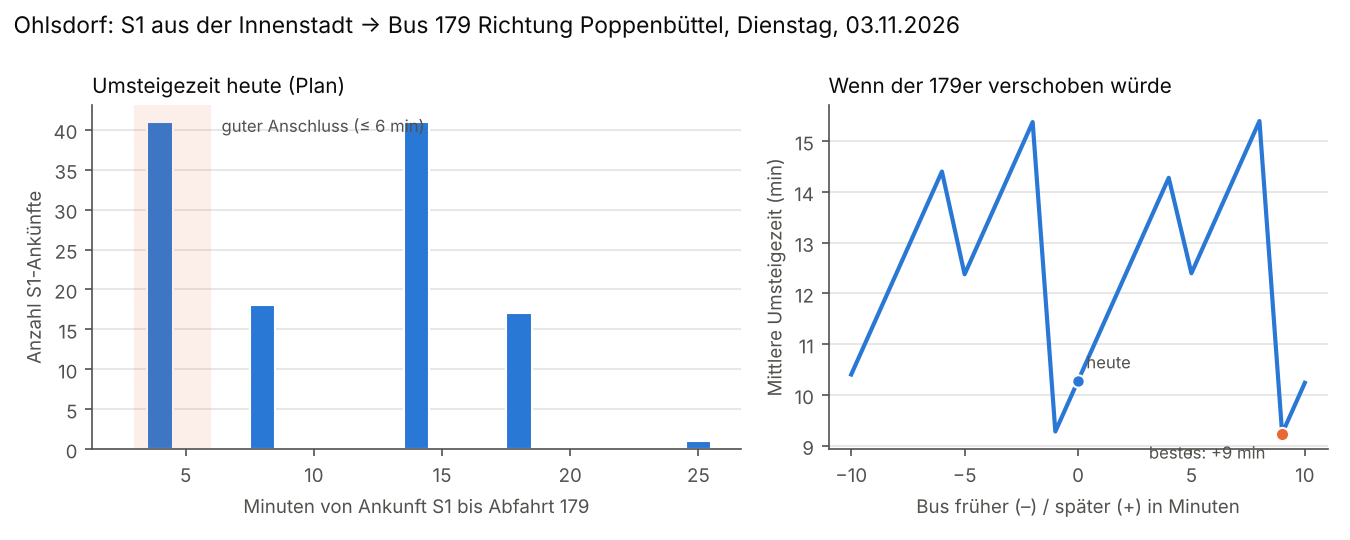
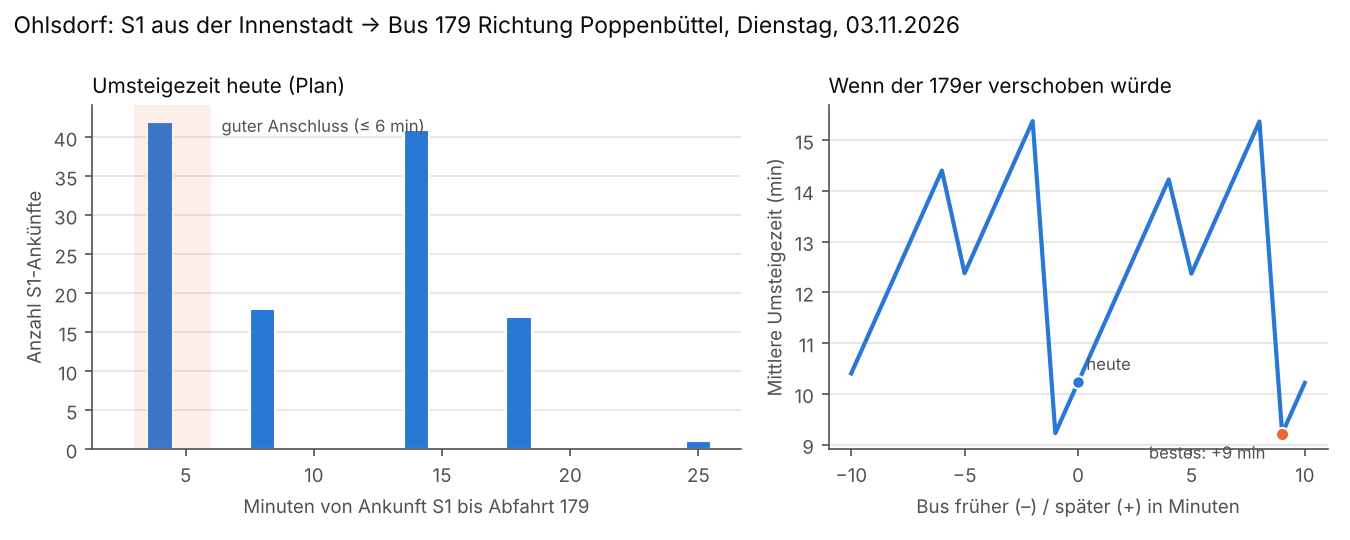
Anschluss-Analyse: erste Abfahrt des Tages korrekt berücksichtigen
Claude-Session: https://claude.ai/code/session_016gEraK8FbaFzQoap8enVhN

diff --git a/analysen/stufe1.py b/analysen/stufe1.py
@@ -184,9 +184,12 @@ def naechste(abfahrten: np.ndarray, ankunft: np.ndarray, min_s: int) -> np.ndarr
     abfahrten = np.sort(abfahrten)
     idx = np.searchsorted(abfahrten, ankunft + min_s, side="left")
     ergebnis = np.full(len(ankunft), np.nan)
-    ok = (idx < len(abfahrten)) & (idx > 0)
+    ok = idx < len(abfahrten)
     luecke = np.full(len(ankunft), np.inf)
-    luecke[ok] = abfahrten[idx[ok]] - abfahrten[idx[ok] - 1]
+    mit_vorgaenger = ok & (idx > 0)
+    luecke[mit_vorgaenger] = abfahrten[idx[mit_vorgaenger]] - abfahrten[idx[mit_vorgaenger] - 1]
+    erste_abfahrt = ok & (idx == 0)  # vor der ersten Abfahrt des Tages: Lücke = Wartezeit selbst
+    luecke[erste_abfahrt] = abfahrten[0] - ankunft[erste_abfahrt]
     ok &= luecke <= MAX_LUECKE_S
     ergebnis[ok] = abfahrten[idx[ok]] - ankunft[ok]
     return ergebnis

diff --git a/analysen/ERGEBNISSE_STUFE1.md b/analysen/ERGEBNISSE_STUFE1.md
@@ -49,8 +49,8 @@ Grundlage für die spätere Puffer-Analyse (Stufe 3): Wo der Plan mehr Zeit vors
 Für jede S1-Ankunft aus der Innenstadt in Ohlsdorf zwischen 06 und 20 Uhr: Wie lange dauert es bis zur nächsten Abfahrt des 179ers Richtung Poppenbüttel, wenn man mindestens 3 Minuten zum Umsteigen braucht?
 
 - Die S1 kommt etwa alle 10 Minuten an, der 179er fährt etwa alle 20 Minuten.
-- Mittlere Umsteigezeit heute: **10,3 Minuten**; guter Anschluss (≤ 6 Minuten) bei **35 %** der Ankünfte, mehr als 12 Minuten bei 50 %.
-- Zum Vergleich: Läge der 179er rein zufällig zur S1, betrüge die mittlere Umsteigezeit etwa 12,7 Minuten. Die heutige Lage ist also **besser als Zufall**.
+- Mittlere Umsteigezeit heute: **10,2 Minuten**; guter Anschluss (≤ 6 Minuten) bei **35 %** der Ankünfte, mehr als 12 Minuten bei 50 %.
+- Zum Vergleich: Läge der 179er rein zufällig zur S1, betrüge die mittlere Umsteigezeit etwa 12,6 Minuten. Die heutige Lage ist also **besser als Zufall**.
 - Die beste Verschiebung (+9 Minuten) brächte nur 1,0 Minuten weniger im Schnitt (9,2 Minuten, guter Anschluss bei 35 %).
 
 **Wichtig:** Weil der Bus nur halb so oft fährt wie die S1, kann eine Verschiebung höchstens jeden zweiten Zug gut anbinden. Die übrigen Ankünfte warten zwangsläufig lange. Eine spürbare Verbesserung für alle bringt nur ein dichterer Takt. Das ist eine Frage an den hvv, der laut Hochbahn den Takt festlegt.
@@ -71,7 +71,7 @@ Insgesamt liegen 44 % dieser Verbindungen besser als bei zufälliger Lage.
 | Barmbek | 277 | U S Barmbek | Richtung Innenstadt/Wedel | 20 min | 12,8 min | 10,0 min | 7,7 min (-8 min) | 5,1 min |
 | Barmbek | 18 | Hauptbahnhof/ZOB | Richtung Innenstadt/Wedel | 10 min | 9,8 min | 7,5 min | 4,8 min (-8 min) | 5,1 min |
 | Barmbek | 18 | Hauptbahnhof/ZOB | Richtung Poppenbüttel/Flughafen | 10 min | 9,2 min | 7,5 min | 4,2 min (-5 min) | 5,0 min |
-| Ohlsdorf | 179 | S Poppenbüttel (Wentzelplatz) | Richtung Innenstadt/Wedel | 20 min | 15,1 min | 12,7 min | 10,2 min (-6 min) | 4,8 min |
+| Ohlsdorf | 179 | S Poppenbüttel (Wentzelplatz) | Richtung Innenstadt/Wedel | 20 min | 15,1 min | 12,7 min | 10,2 min (+4 min) | 4,9 min |
 | Barmbek | 171 | Thomas-Mann-Straße | Richtung Innenstadt/Wedel | 20 min | 15,1 min | 12,6 min | 10,4 min (-8 min) | 4,8 min |
 | Ohlsdorf | 179 | U Borgweg | Richtung Poppenbüttel/Flughafen | 20 min | 13,6 min | 12,9 min | 9,5 min (+3 min) | 4,1 min |
 | Barmbek | 17 | U Feldstraße | Richtung Innenstadt/Wedel | 10 min | 8,8 min | 7,5 min | 4,8 min (-7 min) | 4,1 min |
